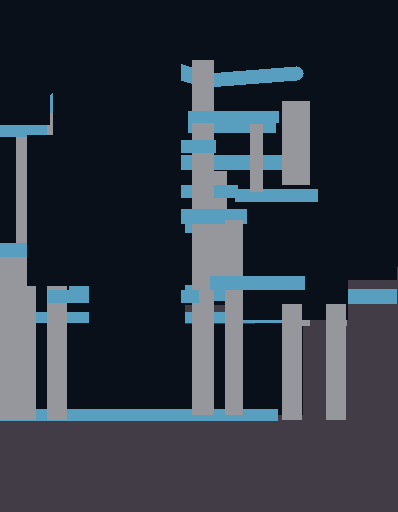
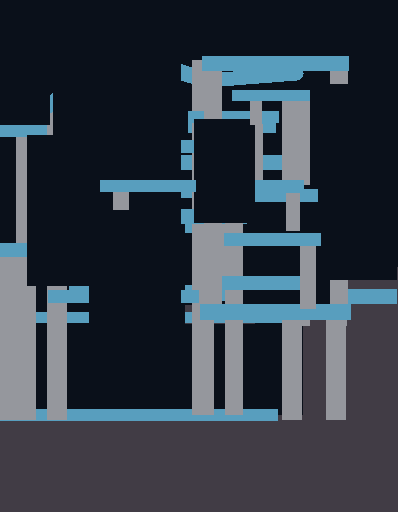
freight/keelbone: resolve independent Art P1 in gravity cascade east assay cutaway

Changed region(s): [[0.2412, 0.0938, 0.9045, 0.625]]

diff --git a/cybersand-canvases/2048x1024/worldgroup-freight-keelbone-reclamation-gravity-cascade-relay-261121/README.md b/cybersand-canvases/2048x1024/worldgroup-freight-keelbone-reclamation-gravity-cascade-relay-261121/README.md
@@ -1,5 +1,12 @@
 # Keelbone Reclamation Vaults — Sibling 05: Gravity Cascade Relay / Counterweight Return
 
+## R2 — bounded independent Art P1 functional repair (21 November 2026)
+
[1 lines of base64/hex data omitted]
+
+The east-side staffing/examination face now has a supported cutaway roof, 59-cell side doorway, founded receiving lip and an inner bonded custody countertop. This is a bounded fix for the exact-cell Art REWORK on the prior HEAD; the west hull intake, four downhill gravity chutes, broken upper cable and lower relief shaft remain materially intact. All regenerated images come from the new full material plane. **Re-review R2 independently; NATIVE-UNTESTED.** The source-static figures farther below refer to R1 and are superseded where changed.
+
+
 **Original CyberSand 2048×1024 material-cell world. OPEN Draft/HOLD, creator SOURCE-STATIC PASS, NATIVE-UNTESTED. Do not merge or mark Ready.**
 
 World-group: Freight / Drydock / Port Systems. Family: Keelbone Reclamation Vaults. Sibling 05. Operational role: elevated hull intake → staged gravity classification and parcel transfer → counterweighted salvage hoist → inhabited assay, staff and bonded dispatch.
